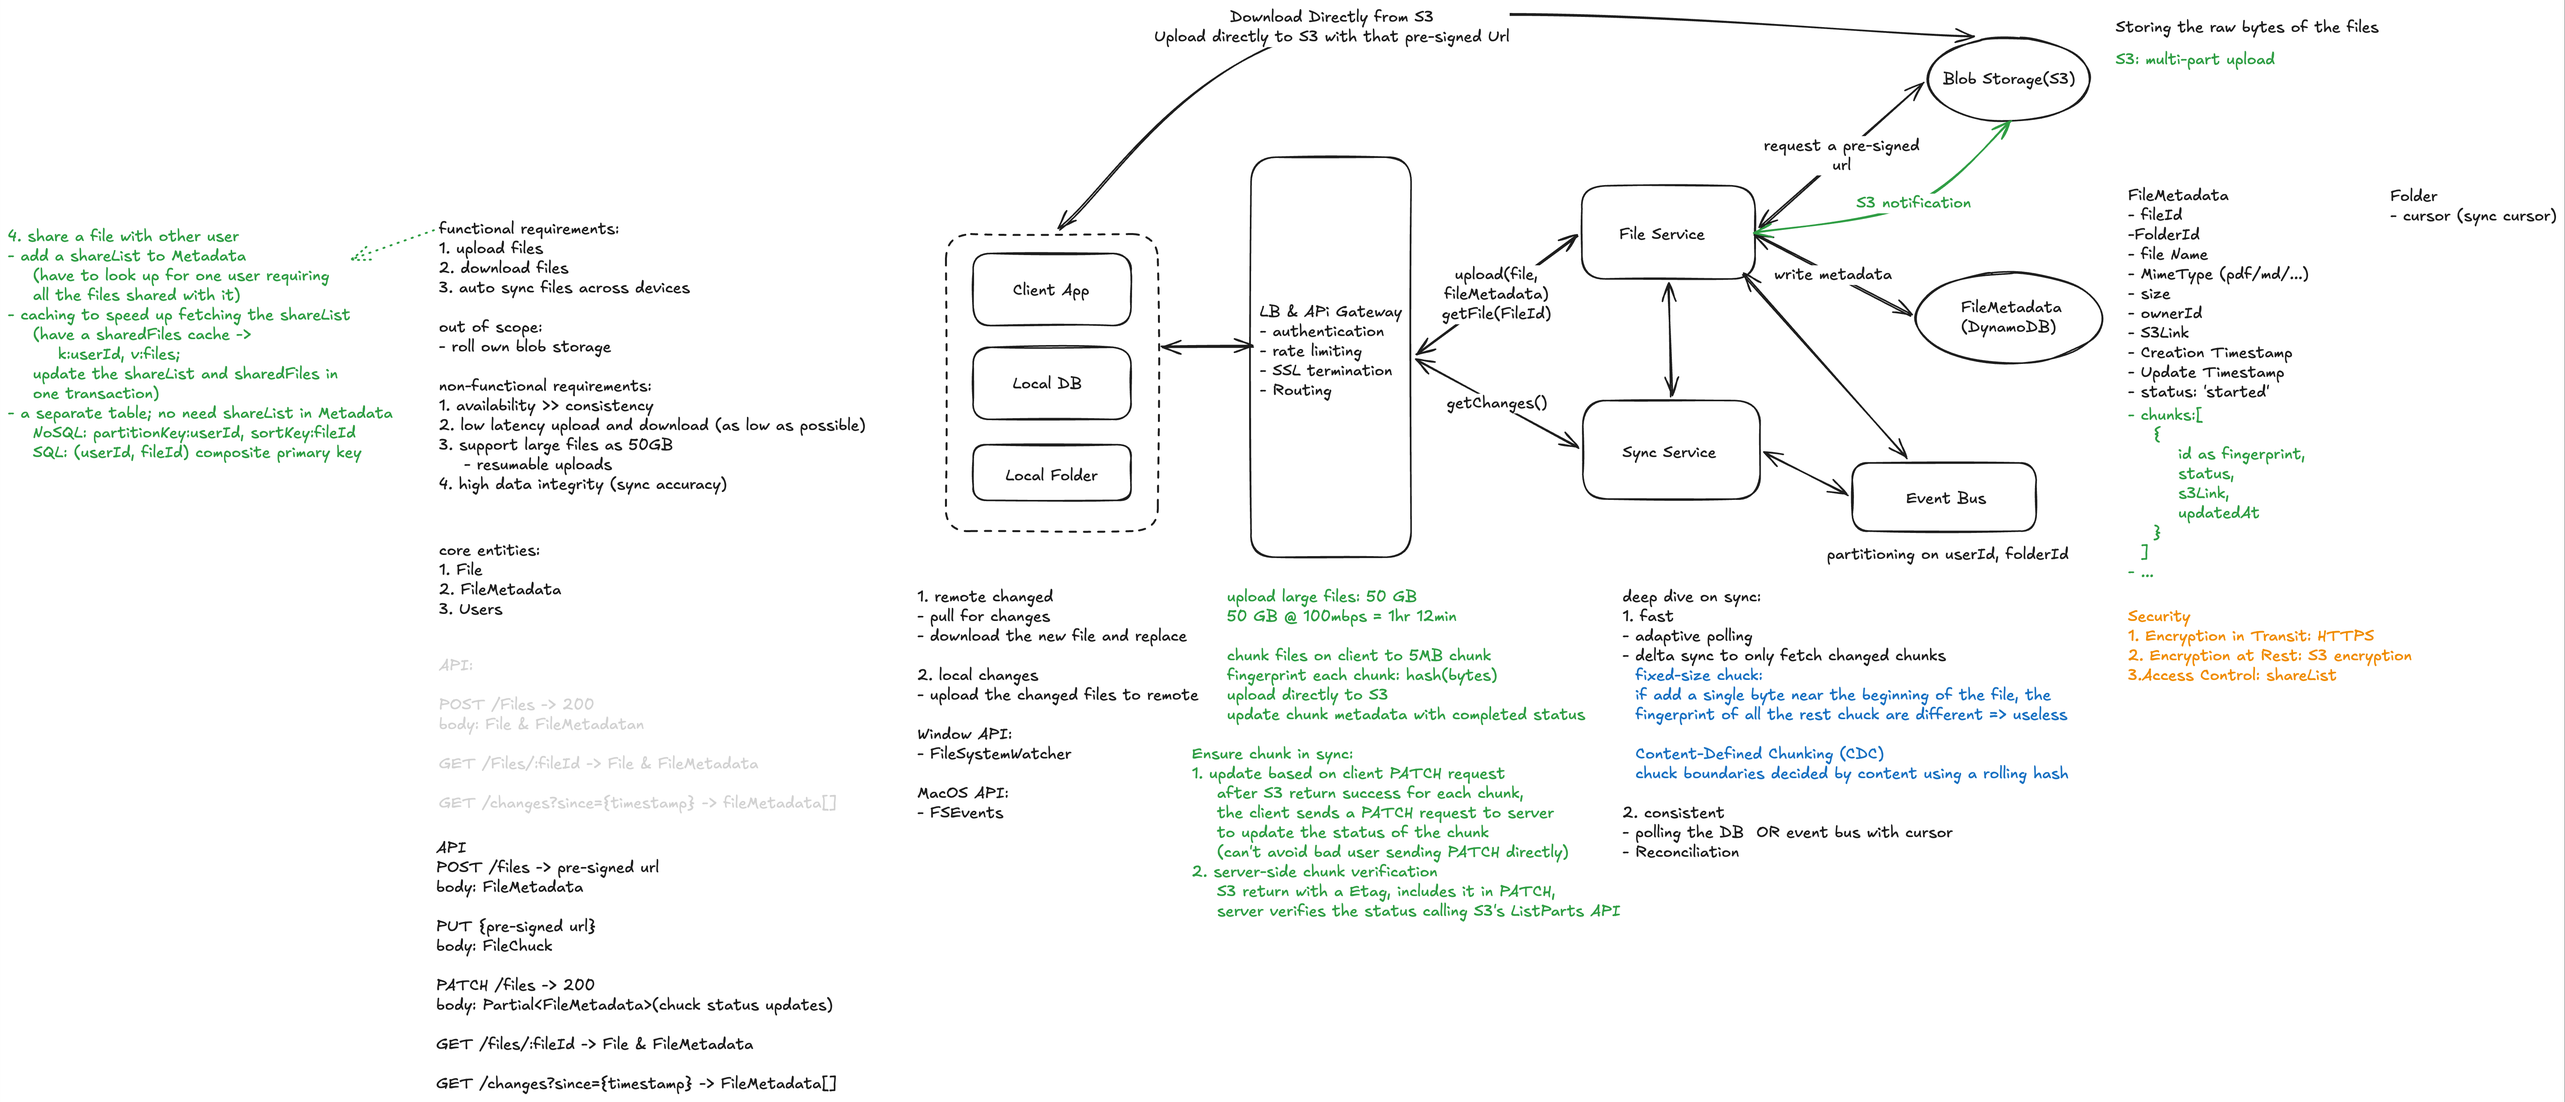
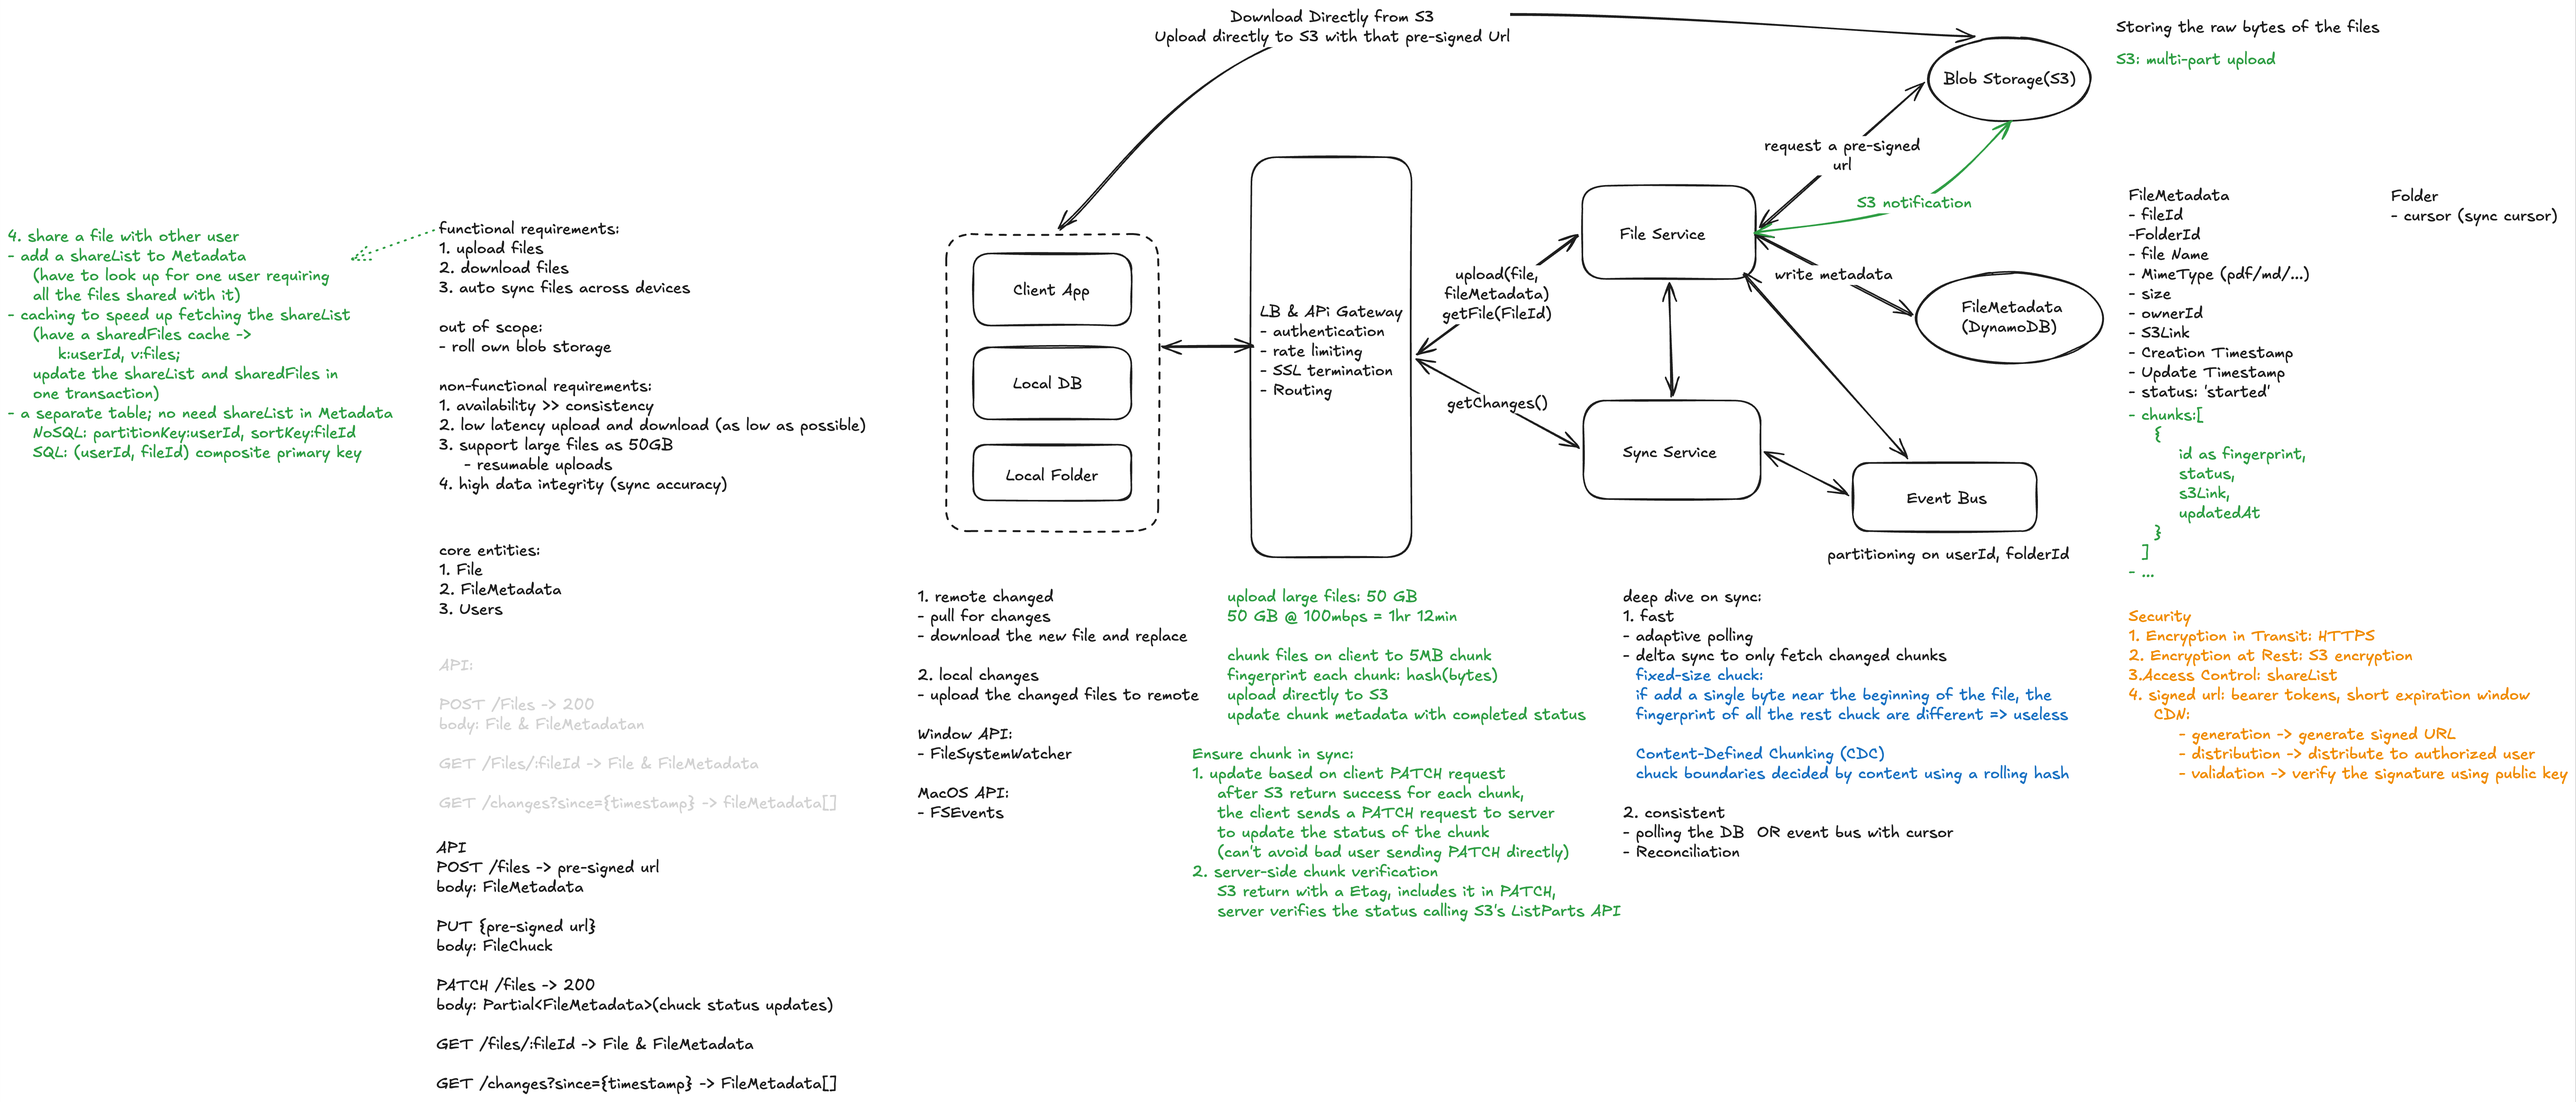
Remove empty root Bitly.md, sync Dropbox signed-URL notes

diff --git a/Excalidraw/Dropbox.md b/Excalidraw/Dropbox.md
@@ -189,10 +189,11 @@ Security
 1. Encryption in Transit: HTTPS
 2. Encryption at Rest: S3 encryption
 3.Access Control: shareList
-4. CDN:
-    - generation
-    - distribution
-    - validation ^12K8lUUf
+4. signed url: bearer tokens, short expiration window
+    CDN:
+        - generation -> generate signed URL
+        - distribution -> distribute to authorized user
+        - validation -> verify the signature using public key ^12K8lUUf
 
 %%
 ## Drawing
@@ -347,84 +348,88 @@ WGtBXQS/5G+tYZWF5eX0RAD52lvi2HkW2ash5AxojleDdhzFqDwvAa0exYuybvq3ZYgC4SLBQBmwR4zb
 
[1 lines of base64/hex data omitted]
 
[2 lines of base64/hex data omitted]
 
[2 lines of base64/hex data omitted]
 
[2 lines of base64/hex data omitted]
 
[2 lines of base64/hex data omitted]
 
[2 lines of base64/hex data omitted]
 
[2 lines of base64/hex data omitted]
 
[2 lines of base64/hex data omitted]
 
[2 lines of base64/hex data omitted]
 
[2 lines of base64/hex data omitted]
 
[2 lines of base64/hex data omitted]
 
[2 lines of base64/hex data omitted]
 
[2 lines of base64/hex data omitted]
 
[2 lines of base64/hex data omitted]
 
[2 lines of base64/hex data omitted]
 
[2 lines of base64/hex data omitted]
 
[2 lines of base64/hex data omitted]
 
[2 lines of base64/hex data omitted]
 
[2 lines of base64/hex data omitted]
 
[2 lines of base64/hex data omitted]
 
[2 lines of base64/hex data omitted]
 
[2 lines of base64/hex data omitted]
 
[2 lines of base64/hex data omitted]
 
[2 lines of base64/hex data omitted]
 
[2 lines of base64/hex data omitted]
 
[2 lines of base64/hex data omitted]
 
[2 lines of base64/hex data omitted]
 
[2 lines of base64/hex data omitted]
 
[2 lines of base64/hex data omitted]
 
[2 lines of base64/hex data omitted]
 
[2 lines of base64/hex data omitted]
 
[2 lines of base64/hex data omitted]
 
[2 lines of base64/hex data omitted]
 
[2 lines of base64/hex data omitted]
 
[2 lines of base64/hex data omitted]
 
[2 lines of base64/hex data omitted]
 
[2 lines of base64/hex data omitted]
 
[2 lines of base64/hex data omitted]
 
[2 lines of base64/hex data omitted]
 
[2 lines of base64/hex data omitted]
 
[2 lines of base64/hex data omitted]
+
[1 lines of base64/hex data omitted]
+
+TH0aMDjlAAzg3rOTD/IfJHJCUm4QNV4IQxYEAA==
 ```
 %%
